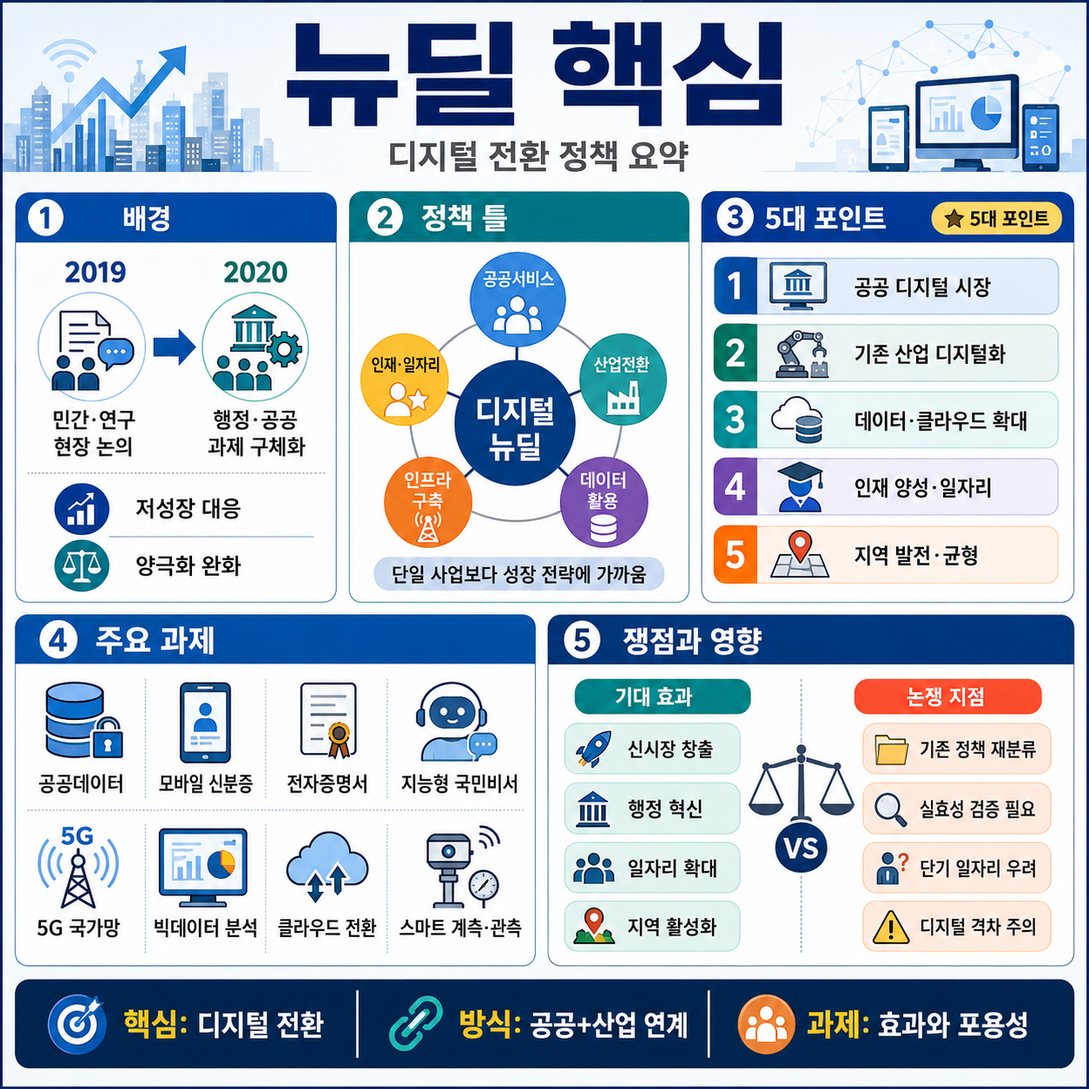
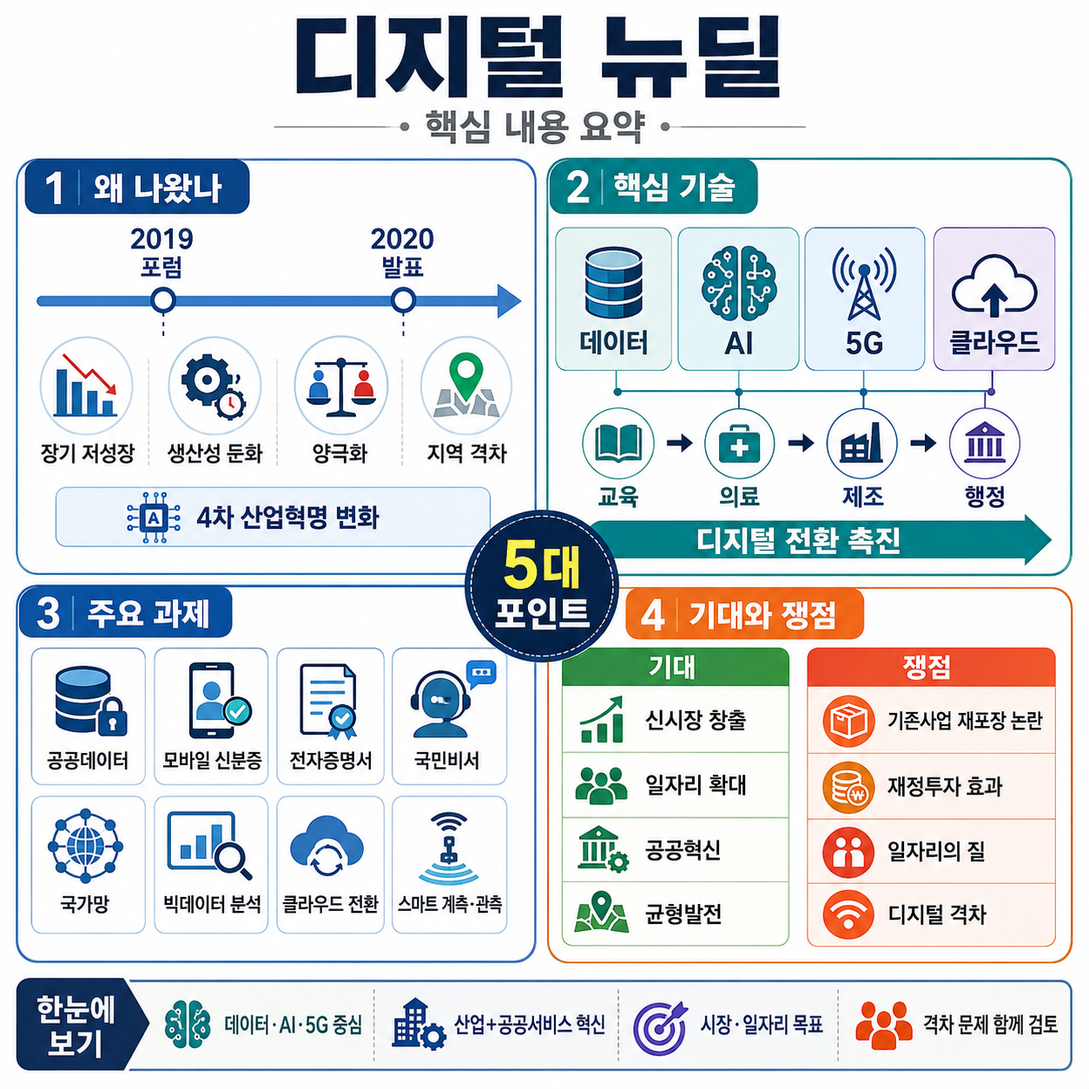
post: auto-generated for tax-yearend

diff --git a/sites/tax-yearend/content/posts/2026-08-29-디지털-뉴딜-핵심-내용과-영향-정리.md b/sites/tax-yearend/content/posts/2026-08-29-디지털-뉴딜-핵심-내용과-영향-정리.md
@@ -1,0 +1,284 @@
+---
+title: "디지털 뉴딜 핵심 내용과 영향 정리"
+date: 2026-08-29
+description: "정책·뉴스의 배경과 맥락 ‘디지털 뉴딜’은 데이터, 인공지능(AI), 5G(5세대 이동통신), 클라우드(인터넷 기반 정보자원 이용 방식) 등 디지털 기술을 활용해 산업과 공공서비스를 혁신하고 새로운 시장과 일자리를 만들려는 정책 방향입니다. 제공된 참고 자료를 종합하면, 국내에서 디지털 뉴딜이라는 구상이 본격적으로 논의된"
+categories: ["정책·뉴스"]
+tags: ["디지털 뉴딜", "정책·뉴스"]
+author: "오늘의 트렌드"
+image: "/images/디지털-뉴딜-핵심-내용과-영향-정리.png"
+---
+
+## 정책·뉴스의 배경과 맥락
+
+‘디지털 뉴딜’은 데이터, 인공지능(AI), 5G(5세대 이동통신), 클라우드(인터넷 기반 정보자원 이용 방식) 등 디지털 기술을 활용해 산업과 공공서비스를 혁신하고 새로운 시장과 일자리를 만들려는 정책 방향입니다. 제공된 참고 자료를 종합하면, 국내에서 디지털 뉴딜이라는 구상이 본격적으로 논의된 배경에는 **장기 저성장, 생산성 증가율 둔화, 양극화, 지역 간 격차와 4차 산업혁명에 따른 산업구조 변화**가 자리하고 있습니다.
+
+2019년 혁신성장협의회가 개최한 ‘포용적 혁신성장을 위한 디지털 뉴딜’ 포럼에서는 디지털 전환을 단순한 정보기술 산업 육성책이 아니라 경제·사회 문제를 해결하기 위한 보다 넓은 정책수단으로 접근했습니다. 당시 제시된 방향은 **신시장 창출, 일자리 확대, 양극화 해소 및 국가균형발전**을 디지털 뉴딜의 중요한 축으로 삼자는 것이었습니다. 공공부문의 디지털 혁신을 통해 새로운 수요를 만들고, 기존 산업에 디지털 기술을 접목해 고부가가치화를 추진하며, 지역에서도 새로운 디지털 시장을 만들어야 한다는 구상이었습니다.
+
+비슷한 시기 과학기술정책연구원(STEPI)에서도 산업과 사회의 디지털 전환을 촉진하기 위한 제도혁신과 투자 확대 수단으로 디지털 뉴딜 추진과제가 논의됐습니다. 여기서 디지털 뉴딜은 **연구개발(R&D), 인재양성, 인프라 구축 등 정부 투자가 필요한 디지털 영역에 확장적 재정정책을 활용하는 접근**으로 설명됐습니다. 데이터·소프트웨어 산업의 공공구매와 스마트혁신 지원 사업 등이 그 사례로 제시됐습니다.
+
+이러한 논의는 이후 정부 정책으로 연결됐습니다. 참고 자료에 따르면 정부는 2020년 5월 한국판 뉴딜의 한 축으로 디지털 뉴딜 사업을 발표했고, **5G와 AI 융합, 빅데이터 구축 등을 중심으로 사업을 추진**했습니다. 행정안전부 차원에서는 공공데이터, 모바일 신분증, 전자증명서, 지능형 국민비서, 국가망, 빅데이터 분석, 클라우드 전환, 재해위험지역 스마트 계측·관측 등 국민 생활과 직접 맞닿은 사업들이 디지털 뉴딜 과제로 제시됐습니다.
+
+다만 정책을 바라보는 시각이 긍정적인 것만은 아니었습니다. 당시 행정안전부가 제시한 여러 사업이 디지털 뉴딜을 계기로 새롭게 시작됐다기보다 **이미 추진되고 있던 디지털 정부혁신 사업을 뉴딜이라는 틀에 다시 포함한 것 아니냐는 비판**도 제기됐습니다. 따라서 디지털 뉴딜을 이해할 때는 정책의 목표뿐 아니라 기존 사업과의 연속성, 재정투자의 효과, 일자리의 질, 디지털 격차 문제까지 함께 살펴볼 필요가 있습니다.
+
+---
+
+## 주요 내용 정리: 디지털 뉴딜 핵심 포인트 5가지
+
+### 1. 데이터·AI·5G를 중심으로 디지털 전환 촉진
+
+디지털 뉴딜의 핵심에는 **데이터, AI, 5G를 활용한 경제·사회의 디지털 전환**이 있습니다.
+
+참고 자료에서 디지털 뉴딜은 5G와 AI의 융합, 빅데이터 구축 등을 중심으로 하는 정책으로 설명됩니다. 단순히 정보통신 산업 자체를 성장시키는 데 머무르지 않고 교육·의료·제조·행정 등 기존 영역에 디지털 기술을 적용해 새로운 서비스와 산업을 만드는 것이 중요한 방향입니다.
+
+| 핵심 분야 | 참고 자료에서 확인되는 방향        | 기대되는 변화         |
+| ----- | ---------------------- | --------------- |
+| 데이터   | 빅데이터 구축, AI 학습용 데이터 구축 | AI 개발·서비스 기반 확대 |
+| AI    | 교육·교통·안전 등 사회 영역 적용    | 새로운 서비스·솔루션 등장  |
+| 5G    | AI와 융합, 국가망 구축         | 디지털 서비스 기반 강화   |
+| 클라우드  | 행정·공공기관 정보시스템 전환       | 공공 정보시스템 디지털화   |
+| 공공서비스 | 모바일 신분증·전자증명서·국민비서     | 행정서비스 이용 방식 변화  |
+
+### 2. 공공부문을 디지털 시장의 수요자로 활용
+
+2019년 포럼에서 제시된 중요한 전략 가운데 하나가 **‘공공 디지털 시장 창출’**입니다.
+
+정부와 공공기관이 디지털 기술과 서비스를 적극적으로 활용하면 민간기업 입장에서는 새로운 시장이 형성될 수 있다는 논리입니다. 지능형 행정서비스를 도입하고 기존의 서비스 전달·개발 방식을 디지털 방식으로 바꾸면서 공공부문이 초기 수요를 만드는 것입니다.
+
+과학기술정책연구원의 논의에서도 데이터·소프트웨어 산업의 공공구매 등이 디지털 뉴딜과 관련된 수단으로 언급됐습니다.
+
+즉, 디지털 뉴딜에서 정부는 규칙을 정하는 역할에만 머무르는 것이 아니라 **투자자이자 구매자, 디지털 전환의 수요자** 역할까지 수행하는 방향이 제시된 것입니다.
+
+### 3. 기존 산업의 디지털화
+
+디지털 뉴딜은 새로운 IT 기업만을 대상으로 하는 정책으로 볼 수 없습니다.
+
+2019년 혁신성장협의회 포럼에서는 기존 주력산업에 디지털 기술을 접목해 새로운 시장과 일자리를 만들고, 기존 산업의 고부가가치화를 추진하는 전략이 제시됐습니다.
+
+AI가 불량품을 검수하거나 영상을 분석하는 것처럼 기존 산업의 업무 과정에 디지털 기술을 적용할 수 있습니다. 문용식 당시 한국지능정보사회진흥원(NIA) 원장도 교육·의료·제조 등 다양한 분야에서 디지털 뉴딜을 통해 기업의 경쟁력이 높아질 수 있다고 전망했습니다.
+
+따라서 핵심은 ‘디지털 산업을 따로 육성하는 것’에 그치지 않고 **기존 산업 자체를 디지털 방식으로 바꾸는 것**이라고 정리할 수 있습니다.
+
+### 4. 데이터 구축과 새로운 일자리 창출
+
+AI 산업에서는 데이터가 중요한 기반입니다. 참고 자료에서 특히 강조된 사업이 **AI 학습용 데이터 구축사업**입니다.
+
+AI가 다양한 상황을 인식하고 판단하려면 학습에 사용할 데이터가 필요합니다. 정부가 데이터 구축을 지원하고 이를 개방하면 기업·개발자 등이 해당 데이터를 활용해 새로운 AI 서비스와 솔루션을 개발할 수 있다는 구상입니다.
+
+일자리 창출도 디지털 뉴딜의 주요 목표 가운데 하나였습니다. 문용식 당시 NIA 원장은 AI와 데이터 분야에서 개발자와 데이터 분석가 부족 현상이 나타나고 있다고 설명하면서 디지털 뉴딜이 본격화하면 새로운 일자리가 많이 만들어질 것이라고 전망했습니다.
+
+다만 일자리 정책의 질을 둘러싼 비판도 있었습니다. 행정안전부가 발표했던 공공데이터 뉴딜의 데이터 분야 청년 일자리 8천여 개와 관련해, 해당 사업이 기존 공공 빅데이터 청년 인턴십을 확대한 것이며 실제 근무기간이 약 4개월인 단기 일자리라는 지적이 제기됐습니다.
+
+### 5. 디지털 포용과 지역균형발전
+
+디지털 전환이 빨라질수록 모든 국민이 같은 수준의 혜택을 누리는 것은 아닙니다.
+
+특히 장년층이나 노년층처럼 디지털 기기와 서비스 이용에 어려움을 겪을 수 있는 계층에서는 **디지털 격차**가 새로운 사회문제로 나타날 수 있습니다.
+
+문용식 당시 NIA 원장은 이러한 문제를 해결하기 위해 ‘디지털 배움터’ 역할을 강화할 필요성을 언급했습니다.
+
+2019년 민간 차원의 디지털 뉴딜 논의에서도 양극화 해소와 국가균형발전이 주요 목표로 제시됐습니다. 따라서 디지털 뉴딜은 기술 투자 정책인 동시에 **디지털 기술의 혜택에서 소외되는 사람과 지역을 줄이는 포용정책의 성격**도 갖고 있었습니다.
+
+---
+
+## 국민에게 미치는 영향: 긍정적 측면과 부정적 측면
+
+디지털 뉴딜의 국민 생활에 대한 영향은 크게 **행정서비스의 편의성, 산업과 일자리 변화, 디지털 격차**라는 세 가지 관점에서 살펴볼 수 있습니다.
+
+### 긍정적 측면
+
+첫째, 행정서비스의 디지털화입니다. 참고 자료에 제시된 모바일 신분증, 전자증명서, 지능형 국민비서 같은 사업은 행정서비스의 이용 방식을 디지털 중심으로 전환하려는 정책입니다.
+
+둘째, 새로운 산업과 기업이 등장할 가능성이 있습니다. AI 학습용 데이터가 구축·개방되면 이를 이용한 AI 교육, 해커톤, 새로운 솔루션 개발 등이 가능해지고 결과적으로 새로운 기업과 서비스가 등장하는 기반이 될 수 있다는 전망이 제시됐습니다.
+
+셋째, 기존 산업의 생산성과 경쟁력을 높이는 효과가 기대됐습니다. 제조업의 불량품 검수, 의료 분야의 암 진단과 영상 분석 등 AI 활용 범위가 확대되면 사람이 수행하던 일부 업무가 자동화되는 동시에 새로운 형태의 서비스와 직무가 만들어질 가능성이 있습니다.
+
+넷째, 공공부문의 디지털 투자가 민간시장 확대의 계기가 될 수 있습니다. 정부가 데이터와 소프트웨어를 구매하고 공공서비스에 새로운 기술을 적용하면 관련 기업에 새로운 시장이 형성될 수 있다는 것이 초기 디지털 뉴딜 논의의 논리였습니다.
+
+### 부정적·우려되는 측면
+
+반면 디지털 전환에 적응하기 어려운 국민에게는 새로운 격차가 생길 수 있습니다. 행정서비스가 디지털 중심으로 변화할수록 스마트폰이나 디지털 서비스 이용이 익숙하지 않은 사람에게는 오히려 불편이 커질 가능성이 있기 때문입니다. 참고 자료에서도 장년층과 노년층의 디지털 격차가 우려사항으로 제시됐습니다.
+
+일자리 문제 역시 양면성이 있습니다. AI와 자동화로 새로운 일자리가 만들어질 것이라는 전망이 있지만, 동시에 기존 업무 가운데 일부가 자동화될 가능성도 인정되고 있습니다.
+
+또한 정부가 발표한 일부 디지털 뉴딜 사업이 사실상 기존 정책을 다시 묶은 것이라는 비판도 있었습니다. 신규 투자와 사업 확대가 충분하지 않은 상태에서 기존 사업을 ‘뉴딜’이라는 이름으로 재분류한다면 정책의 추가 효과가 얼마나 되는지 평가하기 어렵다는 문제입니다.
+
+| 구분   | 긍정적으로 기대된 효과          | 우려·논쟁점                   |
+| ---- | --------------------- | ------------------------ |
+| 행정   | 디지털 행정서비스 확대          | 디지털 이용이 어려운 계층의 불편       |
+| 산업   | AI·데이터 기반 신시장 창출      | 기존 산업·업무구조 변화            |
+| 일자리  | 개발자·데이터 분석 등 새로운 수요   | 자동화에 따른 일부 일자리 감소 가능성    |
+| 지역   | 지역 특화 디지털 시장, 균형발전 추구 | 실제 지역 격차 해소 효과는 별도 검증 필요 |
+| 공공투자 | 정부 수요를 통한 디지털 시장 확대   | 기존 사업 재포장이라는 비판          |
+| 데이터  | AI 개발을 위한 기반 확대       | 데이터 구축 이후 실제 활용 성과가 중요   |
+
+---
+
+## 전문가 의견 및 분석
+
+디지털 뉴딜을 둘러싼 전문가와 관계기관의 시각은 크게 **적극적인 디지털 투자 필요론**과 **사업의 실질적인 추가 효과를 따져봐야 한다는 비판론**으로 나눠볼 수 있습니다.
+
+2019년 혁신성장협의회 포럼에서 노규성 당시 수석공동대표는 경제의 하향 추세와 양극화 문제에 대응하기 위한 긴급 처방으로 디지털 뉴딜을 제시했습니다. 특히 범정부 거버넌스(여러 기관이 정책을 함께 조정·운영하는 체계)를 구축해 통합적인 기획과 정책 연계성을 확보할 필요가 있다고 주장했습니다.
+
+그가 제시한 구상에서는 신시장 창출과 일자리 확대뿐 아니라 양극화 해소 및 국가균형발전까지 디지털 뉴딜의 축으로 설정됐습니다. 즉, 디지털 뉴딜을 산업정책에 한정하지 않고 경제·사회 문제를 함께 해결하는 **포용적 혁신성장 정책**으로 접근한 것입니다.
+
+과학기술정책연구원에서 논의된 방향 역시 정부의 역할을 강조했습니다. 혁신경제사회를 위해 연구개발, 인재양성, 인프라 구축처럼 민간만으로 충분한 투자가 이뤄지기 어려울 수 있는 디지털 영역에 확장적 재정정책을 활용한다는 것입니다.
+
+문용식 당시 NIA 원장은 특히 AI와 일자리의 관계를 긍정적으로 전망했습니다. 자동화로 없어지는 일자리가 일부 있을 수 있다는 점은 인정하면서도, AI가 사람의 능력을 높이는 수단이기 때문에 결과적으로 새로운 일자리가 더 많이 만들어질 것이라고 주장했습니다. 또한 교육·의료·제조 등에서 새로운 AI 솔루션과 기업이 등장하면서 경쟁력을 높일 수 있을 것으로 내다봤습니다.
+
+반면 정책의 실제 구성에 대해서는 비판도 제기됐습니다. 행정안전부가 2020년 제시한 디지털 뉴딜 과제 중 모바일 신분증, 전자증명서, 지능형 국민비서, 공공 정보시스템 클라우드 전환 등은 이미 이전에 발표된 ‘디지털 정부혁신 추진계획’의 핵심 과제였습니다.
+
+행안부는 이에 대해 기존 디지털 정부혁신 과제 중 뉴딜의 방향과 맞고 대규모 재정투자와 일자리 창출이 필요하다고 판단한 사업을 뉴딜에 포함시킨 것이라고 설명했습니다.
+
+따라서 두 관점을 종합하면, **기존 정책이 포함됐다는 사실 자체와 디지털 뉴딜의 필요성은 구분해서 볼 필요가 있습니다.** 기존 사업을 확대·연계해 정책 효과를 높일 수도 있기 때문입니다. 반대로 단순히 기존 사업의 명칭만 바꾸는 데 그친다면 새로운 정책으로서의 추가 효과가 제한될 수 있습니다.
+
+결국 중요한 판단 기준은 ‘디지털 뉴딜이라는 이름으로 몇 개 사업을 추진했는가’보다 **실제로 추가적인 투자와 시장이 만들어졌는지, 지속가능한 일자리가 증가했는지, 기존 산업의 디지털 전환이 이뤄졌는지, 디지털 격차와 지역 격차를 완화했는지**라고 볼 수 있습니다.
+
+---
+
+
+<figure class="post-mid-image">
+  <img src="/images/디지털-뉴딜-핵심-내용과-영향-정리-mid.png" alt="디지털 뉴딜 핵심 내용과 영향 정리 인포그래픽" loading="lazy">
+</figure>
+
+## 향후 전망과 일정
+
+제공된 참고 자료는 주로 2019년부터 2021년 초까지의 디지털 뉴딜 논의와 사업을 다루고 있습니다. 따라서 **2026년 8월 29일 현재의 신규 사업 일정이나 이후 정책 변경 사항은 이 자료만으로 확인할 수 없습니다.** 현재 추진 일정이나 변경된 정책은 별도의 공식 안내 확인이 필요합니다.
+
+다만 참고 자료에 명시된 당시 흐름을 시간순으로 정리하면 다음과 같습니다.
+
+| 시점       | 주요 내용                                                             |
+| -------- | ----------------------------------------------------------------- |
+| 2019년    | 민간·정책연구 차원에서 포용적 혁신성장과 산업·사회의 디지털 전환을 위한 ‘디지털 뉴딜’ 논의              |
+| 2020년 5월 | 정부가 한국판 뉴딜의 일환으로 디지털 뉴딜 사업 발표                                     |
+| 2020년 7월 | 행정안전부가 공공데이터 뉴딜, 모바일 신분증, 전자증명서, 국민비서, 5G 국가망, 클라우드 전환 등 주요 과제 소개 |
+| 2021년 1월 | NIA 원장이 AI·데이터 사업 확대와 국민이 체감할 수 있는 변화, 디지털 포용의 중요성을 강조            |
+
+당시 전망에서 특히 중요하게 다뤄진 부분은 **AI 학습용 데이터의 구축과 개방 이후 민간 활용**이었습니다. 데이터 자체를 구축하는 것으로 정책이 끝나는 것이 아니라 교육과 해커톤, 새로운 솔루션과 기업의 등장으로 연결돼야 한다는 관점입니다.
+
+따라서 참고 자료를 기준으로 보면 디지털 뉴딜의 장기적 성과를 평가할 때도 단순한 데이터 구축량이나 사업 수보다는 **민간 활용과 산업 전환으로 실제 연결됐는지**를 살펴보는 것이 중요합니다.
+
+---
+
+## 관련 정책 비교
+
+디지털 뉴딜에는 새로운 정책만 존재했던 것이 아니라 기존 디지털 정부혁신 사업, 공공데이터 관련 사업, 지방자치단체 사업 등이 함께 연결됐습니다.
+
+이를 참고 자료에 나온 내용만으로 비교하면 다음과 같습니다.
+
+| 정책·사업         | 주요 내용                                        | 디지털 뉴딜과의 관계          | 참고 자료에서 제기된 쟁점                      |
+| ------------- | -------------------------------------------- | -------------------- | ----------------------------------- |
+| 디지털 뉴딜        | 5G·AI 융합, 빅데이터 구축 등                          | 한국판 뉴딜의 한 축          | 산업·공공서비스 전환과 일자리 효과가 중요             |
+| 디지털 정부혁신      | 모바일 신분증, 전자증명서, 지능형 국민비서, 공공 정보시스템 클라우드 전환 등 | 일부 핵심 과제가 디지털 뉴딜에 포함 | 기존 정책을 다시 포함했다는 비판                  |
+| 공공데이터 뉴딜      | 데이터 분야 청년 일자리 등                              | 디지털 뉴딜의 데이터 관련 과제    | 기존 청년 인턴십 확대 성격 및 단기 일자리라는 지적       |
+| AI 학습용 데이터 구축 | AI 개발에 필요한 데이터 구축·개방                         | AI 생태계 조성을 위한 기반 사업  | 구축 이후 실제 민간 활용과 서비스 창출이 중요          |
+| 디지털 배움터       | 디지털 활용 역량 지원                                 | 디지털 포용과 격차 완화에 관련    | 장년층·노년층 등의 디지털 격차 대응 필요             |
+| 지자체 맞춤형 뉴딜    | 지역별 기존 산업·사업을 뉴딜과 연계                         | 지역 차원의 디지털·그린뉴딜 연계   | 일부 사업이 기존 사업이며 추가 국비나 규모 확대가 없다는 지적 |
+
+이 표에서 확인할 수 있는 특징은 **디지털 뉴딜이 완전히 독립된 단일 사업이라기보다 여러 기존 정책과 신규·확대 사업을 하나의 큰 정책 방향 아래 연결하는 성격을 갖고 있었다는 점**입니다.
+
+이 방식에는 장점과 단점이 동시에 존재합니다. 기존 정책을 활용하면 사업을 빠르게 추진하고 정책 간 연계성을 높일 수 있습니다. 반면 새 이름 아래 기존 사업을 단순 나열하는 수준이라면 국민 입장에서는 이전과 무엇이 달라졌는지 알기 어렵고 정책의 추가 효과를 평가하기도 어려워집니다.
+
+---
+
+## 시민이 알아야 할 점 5가지
+
+**첫째, 디지털 뉴딜은 단순한 IT 산업 지원정책으로만 볼 수 없습니다.**
+참고 자료에서는 공공서비스, 제조, 의료, 교육, 교통, 안전 등 다양한 영역의 디지털 전환이 언급됩니다. 산업정책과 행정혁신, 일자리, 지역균형, 디지털 포용이 함께 연결된 개념입니다.
+
+**둘째, 정부가 직접 디지털 시장의 수요를 만드는 것이 중요한 전략이었습니다.**
+공공 디지털 시장 창출과 데이터·소프트웨어 공공구매처럼 정부와 공공기관이 새로운 디지털 기술을 사용하면서 시장을 확대한다는 접근이 제시됐습니다.
+
+**셋째, ‘AI가 일자리를 늘릴 것인가 줄일 것인가’는 한쪽으로 단정하기 어려운 문제입니다.**
+문용식 당시 NIA 원장은 자동화로 일부 일자리가 없어질 가능성을 인정하면서도 새로운 일자리가 더 많이 만들어질 것이라고 전망했습니다. 다만 이는 당시 전문가의 전망과 주장으로 이해할 필요가 있으며, 참고 자료만으로 실제 장기적인 고용효과를 확정할 수는 없습니다.
+
+**넷째, 디지털 격차가 중요한 정책 과제입니다.**
+모바일 신분증이나 전자증명서처럼 서비스가 디지털 중심으로 바뀌면 편리함을 얻는 국민이 있는 반면 디지털 기기 사용이 어려운 계층은 불편을 겪을 수 있습니다. 그래서 디지털 배움터와 같은 디지털 포용 정책의 역할이 함께 강조됐습니다.
+
+**다섯째, ‘뉴딜’이라는 명칭보다 사업의 실질적인 변화를 확인해야 합니다.**
+일부 행정안전부 과제와 지자체 사업을 두고 기존 정책을 다시 묶었다는 비판이 있었습니다. 따라서 정책을 평가할 때는 사업 명칭보다는 추가 투자가 있었는지, 사업 규모가 확대됐는지, 지속가능한 일자리가 만들어졌는지, 국민이 실제로 서비스를 활용할 수 있게 됐는지를 살펴보는 것이 중요합니다.
+
+---
+
+## 디지털 뉴딜을 어떻게 평가해야 하나
+
+디지털 뉴딜을 둘러싼 논쟁은 결국 **‘정부가 디지털 전환을 위해 적극적으로 투자해야 하는가’와 ‘그 투자가 실제 새로운 성과를 만들어냈는가’라는 두 질문**으로 압축할 수 있습니다.
+
+정책을 긍정적으로 보는 입장에서는 데이터와 AI, 5G 같은 디지털 인프라가 새로운 산업의 기반이 되기 때문에 정부가 초기 투자를 확대할 필요가 있다고 봅니다. 특히 민간기업이 단독으로 구축하기 어려운 데이터와 인프라에 정부가 투자하고 공공부문이 디지털 제품과 서비스를 구매하면 새로운 시장이 만들어질 수 있다는 논리입니다.
+
+또한 기존 제조업이나 의료·교육 등에 디지털 기술이 적용되면 IT 산업뿐 아니라 전통 산업에서도 새로운 서비스와 고부가가치 시장이 만들어질 가능성이 있습니다. 지역 특화형 디지털 시장을 함께 육성한다면 국가균형발전이라는 정책 목표와도 연결할 수 있습니다.
+
+반대 또는 비판적인 시각에서는 **새로운 이름을 붙이는 것만으로 새로운 정책이 되는 것은 아니라는 점**을 강조할 수 있습니다. 실제로 참고 자료에서는 모바일 신분증과 전자증명서 등 여러 사업이 이전부터 추진되던 정책이었다는 지적이 나왔습니다. 일부 지자체 사업 역시 한국판 뉴딜과 연계됐지만 추가적인 국비 지원이나 사업 규모 확대가 없었다는 비판을 받았습니다.
+
+고용의 질 역시 중요한 평가 요소입니다. 데이터 관련 일자리가 만들어지는 것 자체는 긍정적으로 평가할 수 있지만, 당시 공공데이터 뉴딜 관련 일자리 가운데 실제 근무기간이 약 4개월인 단기 일자리도 있었다는 점이 지적됐습니다.
+
+결국 디지털 뉴딜의 성패를 판단하려면 **정책 발표 당시의 목표와 실제 결과를 분리해 볼 필요가 있습니다.** 참고 자료는 주로 정책이 시작되던 시기의 논의와 전망을 다루고 있기 때문에, 2026년 현재 최종적인 정책 성과까지 이 자료만으로 판단하는 것은 적절하지 않습니다.
+
+---
+
+## 한눈에 보는 핵심 정리
+
+| 질문         | 핵심 내용                                    |
+| ---------- | ---------------------------------------- |
+| 왜 추진됐나     | 저성장·양극화 등의 문제와 4차 산업혁명에 따른 디지털 전환 필요성 대응 |
+| 무엇을 바꾸려 했나 | 공공서비스와 기존 산업을 데이터·AI·5G 등 디지털 기술 중심으로 전환 |
+| 핵심 산업 기반은  | 데이터, AI, 5G, 빅데이터, 클라우드 등                |
+| 정부 역할은     | 재정투자, 인프라 구축, 공공 디지털 시장 창출, 데이터 구축 등     |
+| 일자리 효과는    | 새로운 디지털 일자리 확대 기대와 자동화·단기 일자리 문제 모두 존재   |
+| 국민 생활 변화는  | 모바일 신분증·전자증명서·국민비서 등 행정서비스 디지털화          |
+| 사회적 과제는    | 장년층·노년층 등의 디지털 격차와 지역·계층 간 격차 완화         |
+| 주요 비판은     | 일부 사업이 기존 정책의 재분류 또는 확대에 가깝다는 지적         |
+| 평가할 핵심 기준은 | 실제 신규 투자·시장·일자리·산업전환 및 디지털 포용 성과         |
+
+---
+
+## 자주 묻는 질문(FAQ)
+
+**Q: 디지털 뉴딜이란 무엇인가요?**
+
+A: 제공된 참고 자료를 종합하면 데이터, AI, 5G 등 디지털 기술을 기반으로 산업과 사회의 디지털 전환을 촉진하고, 공공서비스 혁신과 새로운 시장·일자리 창출 등을 추진하는 정책 방향입니다. 정부가 연구개발, 인재양성, 인프라 구축 등에 투자하는 것도 중요한 내용으로 제시됐습니다.
+
+**Q: 디지털 뉴딜은 한국판 뉴딜과 다른 정책인가요?**
+
+A: 참고 자료에서는 정부가 2020년 5월 발표한 한국판 뉴딜 사업의 일환으로 디지털 뉴딜이 추진됐다고 설명합니다. 즉, 별개의 정책이라기보다 한국판 뉴딜을 구성하는 한 축으로 이해할 수 있습니다.
+
+**Q: 디지털 뉴딜로 실제 일자리가 늘어난다고 볼 수 있나요?**
+
+A: 당시 문용식 NIA 원장은 AI와 데이터 분야에서 개발자와 데이터 분석가가 부족하고 디지털 뉴딜이 본격화하면 새로운 일자리가 많이 만들어질 것이라고 전망했습니다. 다만 자동화로 일부 일자리가 사라질 가능성도 인정했습니다. 또한 공공데이터 뉴딜 관련 일자리 가운데 단기 일자리라는 비판을 받은 사례도 있었습니다. 따라서 제공된 자료만으로 디지털 뉴딜이 장기적으로 전체 일자리를 얼마나 늘렸는지는 확정하기 어렵습니다.
+
+**Q: 디지털 뉴딜은 국민 생활과 어떤 관련이 있나요?**
+
+A: 행정안전부가 디지털 뉴딜 과제로 제시했던 모바일 신분증, 전자증명서, 지능형 국민비서, 공공기관 정보시스템 클라우드 전환 등이 대표적입니다. 즉, 기업 지원이나 산업정책뿐 아니라 국민이 이용하는 행정서비스의 디지털화와도 직접 연결됩니다.
+
+**Q: 디지털 뉴딜에 대한 가장 큰 비판은 무엇이었나요?**
+
+A: 일부 사업이 디지털 뉴딜을 계기로 새롭게 만들어진 것이 아니라 이전부터 추진되던 정책을 다시 포함한 것이라는 지적이 있었습니다. 행정안전부는 기존 디지털 정부혁신 과제 가운데 뉴딜의 방향에 맞고 대규모 재정투자와 일자리 창출이 필요하다고 판단한 사업을 포함시켰다고 설명했습니다. 따라서 정책의 명칭보다는 실제 추가 투자와 사업 확대, 시장·일자리 창출 효과를 확인하는 것이 중요합니다.
+
+---
+
+## 정리
+
+디지털 뉴딜의 핵심을 한 문장으로 정리하면 **‘정부의 투자와 공공부문의 디지털 전환을 마중물로 삼아 데이터·AI·5G 기반의 새로운 산업과 서비스를 만들고, 기존 산업과 사회 전체의 디지털 전환까지 촉진하려는 정책 방향’**이라고 할 수 있습니다.
+
+초기 논의에서는 단순한 기술개발을 넘어 신시장 창출, 일자리 확대, 양극화 해소와 국가균형발전이라는 목표까지 제시됐습니다. 공공 디지털 시장을 만들고 기존 산업을 디지털화하며 새로운 디지털 시장을 창출하는 전략도 논의됐습니다.
+
+정부 정책으로 구체화되는 과정에서는 공공데이터, 모바일 신분증, 전자증명서, 지능형 국민비서, 5G 국가망, 빅데이터 분석, 클라우드 전환, AI 학습용 데이터 구축 등 다양한 사업이 디지털 뉴딜과 연결됐습니다.
+
+그러나 정책의 효과를 평가할 때는 기대와 성과를 구분해야 합니다. AI와 데이터 산업의 성장 및 새로운 일자리 창출에 대한 기대가 있었던 반면, 일부 일자리의 단기성이나 기존 정책을 뉴딜 사업으로 다시 묶었다는 비판도 있었습니다. 디지털 기술을 이용하기 어려운 계층에서 새로운 격차가 발생할 가능성 역시 중요한 문제로 제기됐습니다.
+
+따라서 디지털 뉴딜은 ‘디지털 기술에 정부가 투자했다’는 사실만으로 평가하기보다 **그 투자가 새로운 시장과 지속가능한 일자리로 이어졌는지, 기존 산업의 생산성과 경쟁력을 높였는지, 공공서비스를 실질적으로 개선했는지, 그리고 디지털 격차와 지역 격차를 완화했는지**를 함께 살펴볼 필요가 있습니다.
+
+또한 제공된 참고 자료가 주로 2019~2021년의 논의와 당시 전망을 담고 있다는 점에도 주의해야 합니다. **2026년 8월 29일 현재의 디지털 뉴딜 관련 사업 현황이나 후속 정책, 최종 성과를 이 자료만으로 단정할 수는 없습니다.** 현재의 구체적인 사업과 일정은 관련 정부기관의 공식 안내를 별도로 확인하는 것이 필요합니다.
+
+## 출처
+
+* [한국일보 「포용적 혁신성장을 위한 디지털 뉴딜 포럼」](https://www.hankookilbo.com/news/article/201906031558394524?utm_source=chatgpt.com)
+* [동아사이언스 「행안부 '디지털 뉴딜' 과제 대부분 '그때 그 정책'」](https://www.dongascience.com/ko/news/38224?utm_source=chatgpt.com)
+* [동아사이언스 「디지털뉴딜 제안 문용식 NIA원장 'AI로 일자리 줄기보다 늘 것'」](https://www.dongascience.com/ko/news/43062?utm_source=chatgpt.com)
+* [헤럴드경제 「산업·사회 디지털전환 촉진해야…‘디지털 뉴딜’ 추진과제 도출」](https://biz.heraldcorp.com/article/2040724?utm_source=chatgpt.com)
+
+---
+
+<figure class="post-comic">
+  <figcaption>오늘의 시사 4컷</figcaption>
+  <img src="/images/디지털-뉴딜-핵심-내용과-영향-정리-comic.png" alt="디지털 뉴딜 핵심 내용과 영향 정리 4컷만화" loading="lazy">
+</figure>
